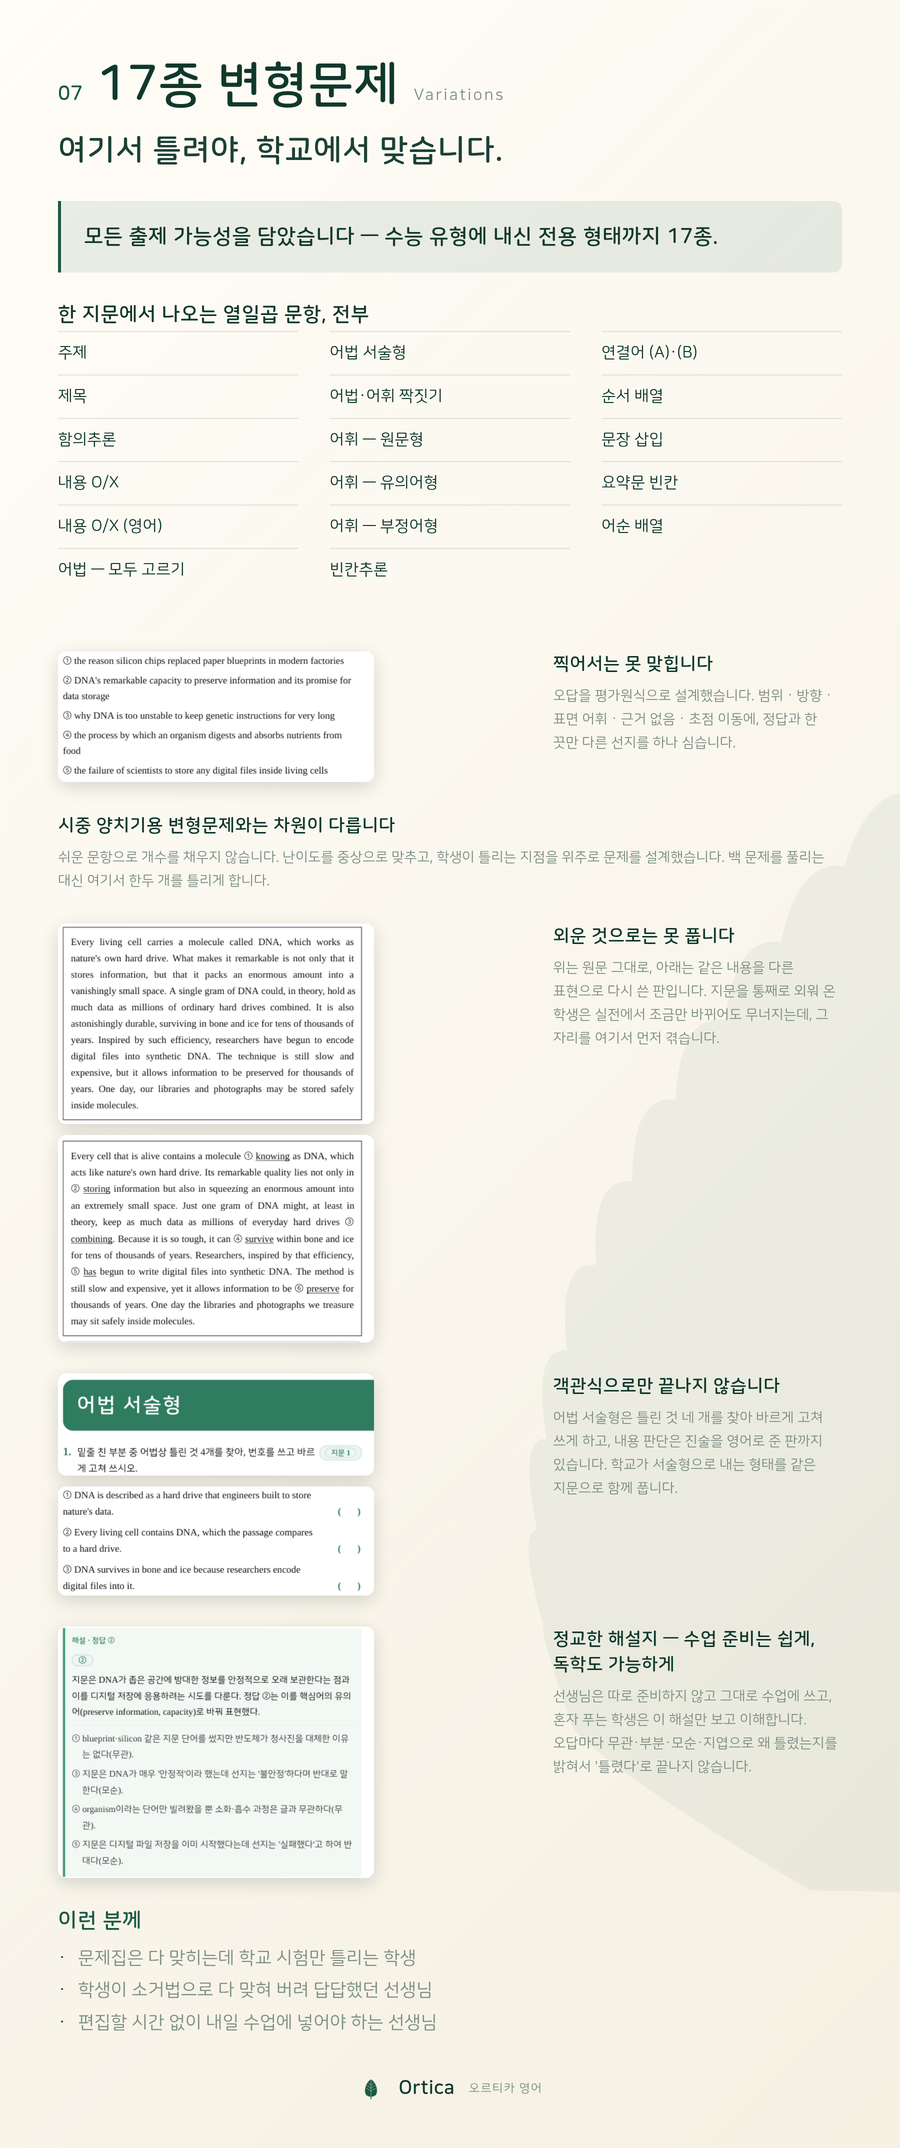
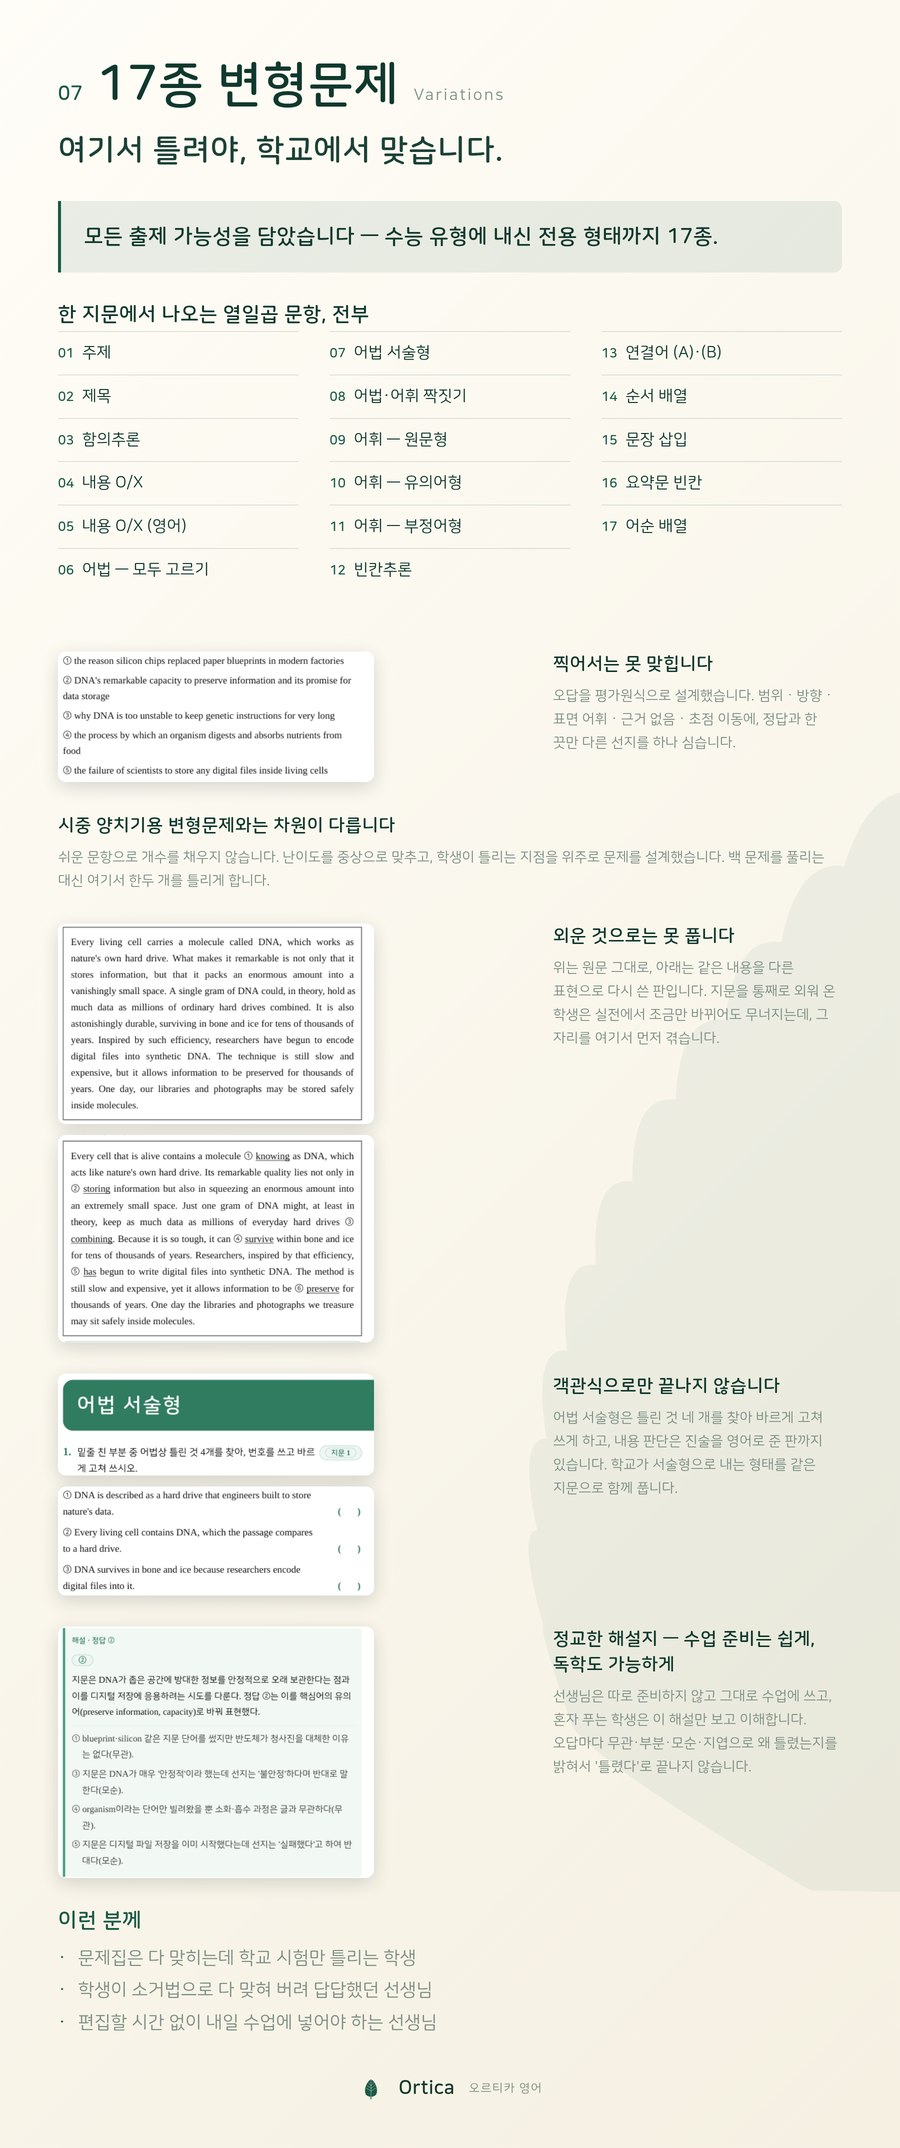
변형문제 유형 목록에 01~17 번호

Changed region(s): [[0.3733, 0.156, 0.5289, 0.2807], [0.0622, 0.156, 0.1867, 0.2807], [0.6533, 0.156, 0.7778, 0.2495]]

diff --git a/brand/build.py b/brand/build.py
@@ -574,16 +574,20 @@ def grid_table(title: str, rows, t: dict[str, str], u: float, width: float) -> s
     열일곱 줄을 세로로 세우면 그 표만 한 화면을 먹는다. 짧은 줄로 잘라 칸을
     나누면 훑어보기가 된다. 오른쪽 값이 다 비어 있으면 그냥 이름만 늘어놓는
     목록이므로 한 칸 더 나눈다.
+
+    앞에 번호를 붙인다. '열일곱 가지'라고 써 놓고 세게 만들면 안 된다.
     """
     cols = 2 if any(v for _, v in rows) else 3
     cells = "".join(f"""<div style="display:flex;justify-content:space-between;
       align-items:baseline;gap:{u * 1.2:.0f}px;padding:{u * 1.15:.0f}px 0;
       border-top:1px solid {t['line']};break-inside:avoid">
       <div class="sans" style="font-size:{u * 1.75:.0f}px;color:{t['fg']};
-           line-height:1.4;word-break:keep-all">{k}</div>
+           line-height:1.4;word-break:keep-all">
+        <span class="wm" style="font-size:{u * 1.45:.0f}px;color:{t['accent']};
+              margin-right:{u * .9:.0f}px">{i:02d}</span>{k}</div>
       {f'''<div class="sans" style="flex:0 0 auto;font-size:{u * 1.5:.0f}px;
            color:{t['accent']};white-space:nowrap">{v}</div>''' if v else ''}
-    </div>""" for k, v in rows)
+    </div>""" for i, (k, v) in enumerate(rows, 1))
     return f"""<div style="margin-top:{u * 3.4:.0f}px">
       <div class="ko" style="font-size:{u * 2.2:.0f}px;color:{t['fg']};
            margin-bottom:{u * .6:.0f}px;word-break:keep-all">{title}</div>
